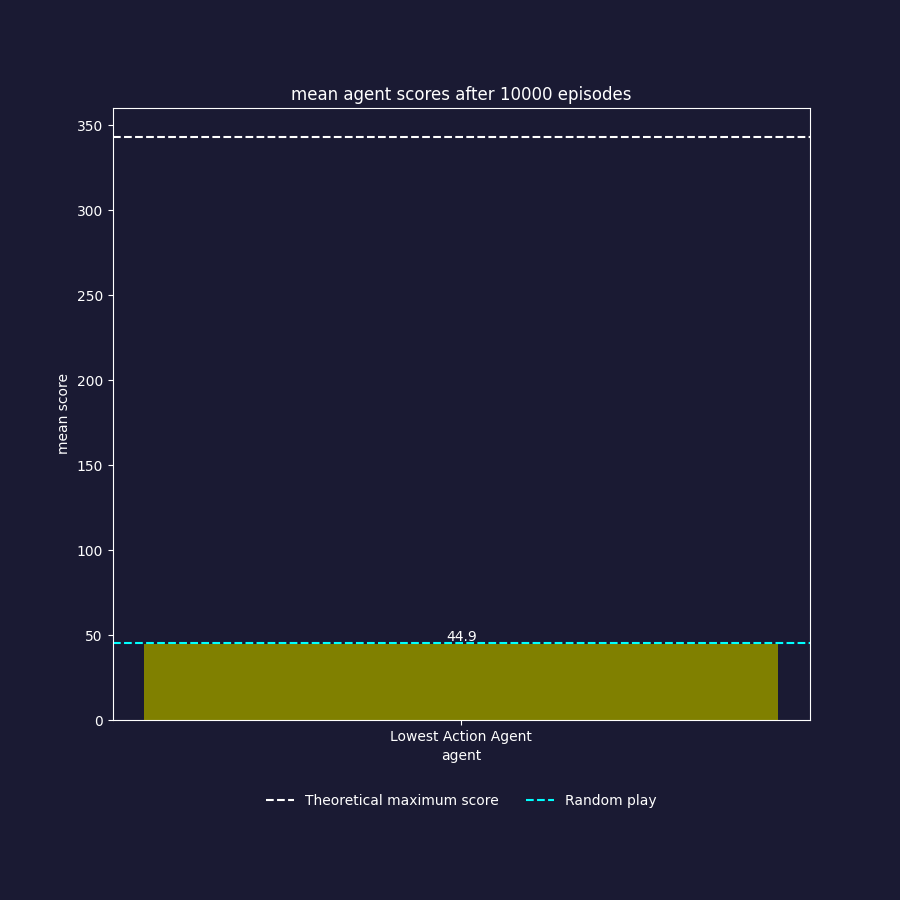
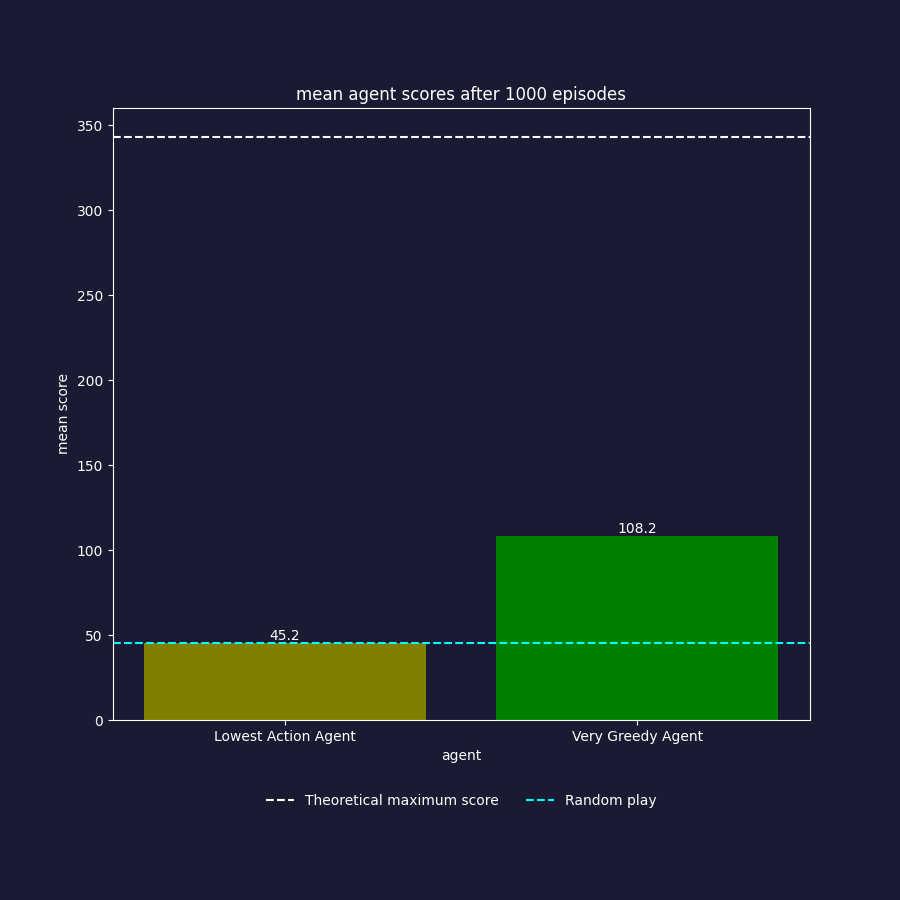
very greedy agent and mcts agent (with unknown bug)

diff --git a/yahtzee/yahtzee.py b/yahtzee/yahtzee.py
@@ -8,18 +8,30 @@ from yahtzee.constants import NUM_DICE, CATEGORIES, ACTIONS, ACTION_SPACE
 class State:
     def __init__(
         self,
+        score: int = 0,
         dice: List[int] = [0] * NUM_DICE,
         available_categories: Dict[str, int] = {category: 1 for category in CATEGORIES},
         remaining_rolls: int = 3,
         valid_actions: List[int] = [1] * ACTION_SPACE,
     ):
+        self.score = score
         self.dice = dice
         self.available_categories = available_categories
         self.remaining_rolls = remaining_rolls
         self.valid_actions = valid_actions
 
+    def copy(self):
+        return State(
+            score=self.score,
+            dice=self.dice.copy(),
+            available_categories=self.available_categories.copy(),
+            remaining_rolls=self.remaining_rolls,
+            valid_actions=self.valid_actions.copy(),
+        )
+
     def __str__(self) -> str:
         s = "--------- Game State ---------\n"
+        s += f"Score: {self.score}\n"
         s += f"Dice: {self.dice}\n"
         s += f"Remaining rolls: {self.remaining_rolls}\n"
         s += f"Available categories: {self.available_categories}\n"
@@ -31,13 +43,14 @@ class State:
 
 
 class Yahtzee:
-    def __init__(self):
-        self._score = 0
-        self._state = State()
-        self.roll_dice()
-
-        for category in CATEGORIES:
-            self._state.available_categories[category] = 1
+    def __init__(self, state=None):
+        if state is None:
+            self._state = State()
+            self.roll_dice()
+            for category in CATEGORIES:
+                self._state.available_categories[category] = 1
+        else:
+            self._state = state.copy()
 
     @property
     def state(self) -> State:
@@ -56,7 +69,7 @@ class Yahtzee:
         self._state.valid_actions = valid_actions
 
     def get_score(self) -> int:
-        return self._score
+        return self._state.score
 
     def is_done(self) -> bool:
         return not any(self._state.available_categories.values())
@@ -67,7 +80,7 @@ class Yahtzee:
 
         if action >= 31:
             category = CATEGORIES[action - 31]
-            self._score += self.check_category(category)
+            self._state.score += check_category(category, self._state.dice)
             self._state.available_categories[category] = 0
             self._state.remaining_rolls = 3
             self.roll_dice()
@@ -85,98 +98,99 @@ class Yahtzee:
             self._state.dice[i] = random.randint(1, 6)
         self._state.remaining_rolls -= 1
 
-    def check_category(self, category: str) -> int:
-        match category:
-            case "aces":
-                return _check_aces(self._state.dice)
-            case "twos":
-                return _check_twos(self._state.dice)
-            case "threes":
-                return _check_threes(self._state.dice)
-            case "fours":
-                return _check_fours(self._state.dice)
-            case "fives":
-                return _check_fives(self._state.dice)
-            case "sixes":
-                return _check_sixes(self._state.dice)
-            case "chance":
-                return _check_chance(self._state.dice)
-            case "three_of_a_kind":
-                return _check_three_of_a_kind(self._state.dice)
-            case "four_of_a_kind":
-                return _check_four_of_a_kind(self._state.dice)
-            case "full_house":
-                return _check_full_house(self._state.dice)
-            case "small_straight":
-                return _check_small_straight(self._state.dice)
-            case "large_straight":
-                return _check_large_straight(self._state.dice)
-            case "yahtzee":
-                return _check_yahtzee(self._state.dice)
-            case _:
-                raise ValueError(f"Invalid category: {category}")
+
+def check_category(category: str, dice: List[int]) -> int:
+    match category:
+        case "aces":
+            return check_aces(dice)
+        case "twos":
+            return check_twos(dice)
+        case "threes":
+            return check_threes(dice)
+        case "fours":
+            return check_fours(dice)
+        case "fives":
+            return check_fives(dice)
+        case "sixes":
+            return check_sixes(dice)
+        case "chance":
+            return check_chance(dice)
+        case "three_of_a_kind":
+            return check_three_of_a_kind(dice)
+        case "four_of_a_kind":
+            return check_four_of_a_kind(dice)
+        case "full_house":
+            return check_full_house(dice)
+        case "small_straight":
+            return check_small_straight(dice)
+        case "large_straight":
+            return check_large_straight(dice)
+        case "yahtzee":
+            return check_yahtzee(dice)
+        case _:
+            raise ValueError(f"Invalid category: {category}")
 
 
-def _check_aces(dice: List[int]) -> int:
+def check_aces(dice: List[int]) -> int:
     return dice.count(1)
 
 
-def _check_twos(dice: List[int]) -> int:
+def check_twos(dice: List[int]) -> int:
     return dice.count(2) * 2
 
 
-def _check_threes(dice: List[int]) -> int:
+def check_threes(dice: List[int]) -> int:
     return dice.count(3) * 3
 
 
-def _check_fours(dice: List[int]) -> int:
+def check_fours(dice: List[int]) -> int:
     return dice.count(4) * 4
 
 
-def _check_fives(dice: List[int]) -> int:
+def check_fives(dice: List[int]) -> int:
     return dice.count(5) * 5
 
 
-def _check_sixes(dice: List[int]) -> int:
+def check_sixes(dice: List[int]) -> int:
     return dice.count(6) * 6
 
 
-def _check_chance(dice: List[int]) -> int:
+def check_chance(dice: List[int]) -> int:
     return sum(dice)
 
 
-def _check_three_of_a_kind(dice: List[int]) -> int:
+def check_three_of_a_kind(dice: List[int]) -> int:
     for i in range(1, 7):
         if dice.count(i) >= 3:
             return sum(dice)
     return 0
 
 
-def _check_four_of_a_kind(dice: List[int]) -> int:
+def check_four_of_a_kind(dice: List[int]) -> int:
     for i in range(1, 7):
         if dice.count(i) >= 4:
             return sum(dice)
     return 0
 
 
-def _check_full_house(dice: List[int]) -> int:
+def check_full_house(dice: List[int]) -> int:
     if len(set(dice)) == 2:
         return 25
     return 0
 
 
-def _check_small_straight(dice: List[int]) -> int:
+def check_small_straight(dice: List[int]) -> int:
     for valid_sequence in [[1, 2, 3, 4], [2, 3, 4, 5], [3, 4, 5, 6], [1, 2, 3, 4, 5]]:
         if sorted(set(dice)) == valid_sequence:
             return 30
     return 0
 
 
-def _check_large_straight(dice: List[int]) -> int:
+def check_large_straight(dice: List[int]) -> int:
     if sorted(set(dice)) in [[1, 2, 3, 4, 5], [2, 3, 4, 5, 6]]:
         return 40
     return 0
 
 
-def _check_yahtzee(dice: List[int]) -> int:
+def check_yahtzee(dice: List[int]) -> int:
     return int(len(set(dice)) == 1) * 50

diff --git a/yahtzee/agents/mcts_agent/mcts.py b/yahtzee/agents/mcts_agent/mcts.py
@@ -1,0 +1,34 @@
+import random
+
+from yahtzee.yahtzee import State, Yahtzee
+from yahtzee.constants import ACTION_SPACE
+
+
+def play_out_game(yahtzee: Yahtzee) -> int:
+    while not yahtzee.is_done():
+        valid_action_indices = [
+            i for i, valid_action in enumerate(yahtzee.state.valid_actions) if valid_action
+        ]
+        action = random.choice(valid_action_indices)
+        yahtzee.step(action)
+    return yahtzee.get_score()
+
+
+class MonteCarloTreeSearch():
+    def search(self, state: State, iters: int) -> int:
+        num_valid_actions = sum(state.valid_actions)
+        iters_per_action = iters // num_valid_actions
+        action_scores = [0] * ACTION_SPACE
+
+        for action in range(ACTION_SPACE):
+            if not state.valid_actions[action]:
+                continue
+
+            for _ in range(iters_per_action):
+                yahtzee = Yahtzee(state)
+                yahtzee.step(action)
+                score = play_out_game(yahtzee)
+                action_scores[action] += score
+
+        return action_scores.index(max(action_scores))
+

diff --git a/yahtzee/constants.py b/yahtzee/constants.py
@@ -81,3 +81,19 @@ ACTIONS = [
     "choose_yahtzee",
 ]
 ACTION_SPACE = len(ACTIONS)
+
+CATEGORY_TO_ACTION = {
+    "aces": ACTIONS.index("choose_aces"),
+    "twos": ACTIONS.index("choose_twos"),
+    "threes": ACTIONS.index("choose_threes"),
+    "fours": ACTIONS.index("choose_fours"),
+    "fives": ACTIONS.index("choose_fives"),
+    "sixes": ACTIONS.index("choose_sixes"),
+    "chance": ACTIONS.index("choose_chance"),
+    "three_of_a_kind": ACTIONS.index("choose_three_of_a_kind"),
+    "four_of_a_kind": ACTIONS.index("choose_four_of_a_kind"),
+    "full_house": ACTIONS.index("choose_full_house"),
+    "small_straight": ACTIONS.index("choose_small_straight"),
+    "large_straight": ACTIONS.index("choose_large_straight"),
+    "yahtzee": ACTIONS.index("choose_yahtzee"),
+}

diff --git a/yahtzee/agents/very_greedy_agent/very_greedy_agent.py b/yahtzee/agents/very_greedy_agent/very_greedy_agent.py
@@ -1,0 +1,23 @@
+from yahtzee.agent import Agent
+from yahtzee.yahtzee import State, check_category
+from yahtzee.constants import CATEGORIES, CATEGORY_TO_ACTION
+
+
+class VeryGreedyAgent(Agent):
+    def get_action(self, state: State) -> int:
+        dice = state.dice
+
+        best_category = ""
+        best_score = -1
+
+        for category in CATEGORIES:
+            if state.available_categories[category]:
+                score = check_category(category, dice)
+                if score > best_score:
+                    best_score = score
+                    best_category = category
+
+        return CATEGORY_TO_ACTION[best_category]
+
+    def get_name(self) -> str:
+        return "Very Greedy Agent"

diff --git a/scripts/evaluate_agents.py b/scripts/evaluate_agents.py
@@ -1,5 +1,21 @@
+import argparse
+
 from yahtzee import Arena
 
-arena = Arena(num_episodes=10000)
+
+def parse_args() -> argparse.Namespace:
+    parser = argparse.ArgumentParser()
+    parser.add_argument(
+        "--episodes",
+        type=int,
+        default=10000,
+        help="Number of episodes to run each agent for",
+    )
+    return parser.parse_args()
+
+
+args = parse_args()
+
+arena = Arena(num_episodes=args.episodes)
 arena.run()
 arena.graph_results("assets/agentperformances.png")

diff --git a/yahtzee/agents/__init__.py b/yahtzee/agents/__init__.py
@@ -1,4 +1,7 @@
-from .random_agent import RandomAgent
-from .lowest_action_agent import LowestActionAgent
+# Import and add your model here
+from .random_agent.random_agent import RandomAgent
+from .lowest_action_agent.lowest_action_agent import LowestActionAgent
+from .very_greedy_agent.very_greedy_agent import VeryGreedyAgent
+from .mcts_agent.mcts_agent import MctsAgent
 
-__all__ = ["RandomAgent", "LowestActionAgent"]
+__all__ = ["RandomAgent", "LowestActionAgent", "VeryGreedyAgent", "MctsAgent"]

diff --git a/yahtzee/agents/mcts_agent/mcts_agent.py b/yahtzee/agents/mcts_agent/mcts_agent.py
@@ -1,0 +1,17 @@
+from yahtzee.agent import Agent
+from yahtzee.yahtzee import State
+
+from .mcts import MonteCarloTreeSearch
+
+
+class MctsAgent(Agent):
+    def __init__(self):
+        self.mcts = MonteCarloTreeSearch()
+
+    def get_action(self, state: State) -> int:
+        self.mcts = MonteCarloTreeSearch()
+        action = self.mcts.search(state, 10)
+        return action
+
+    def get_name(self) -> str:
+        return "MCTS Agent"

diff --git a/yahtzee/arena.py b/yahtzee/arena.py
@@ -9,15 +9,17 @@ from yahtzee.constants import MAXIMUM_THEORETICAL_SCORE, EXPECTED_RANDOM_PLAY_SC
 
 # Import your agent(s) here
 from yahtzee.agents import (
-    # RandomAgent,
     LowestActionAgent,
+    VeryGreedyAgent,
+    MctsAgent,
 )
 
 
 # Add your agent(s) here
 AGENTS: List[Type[Agent]] = [
-    # RandomAgent,
     LowestActionAgent,
+    VeryGreedyAgent,
+    MctsAgent,
 ]
 
 
